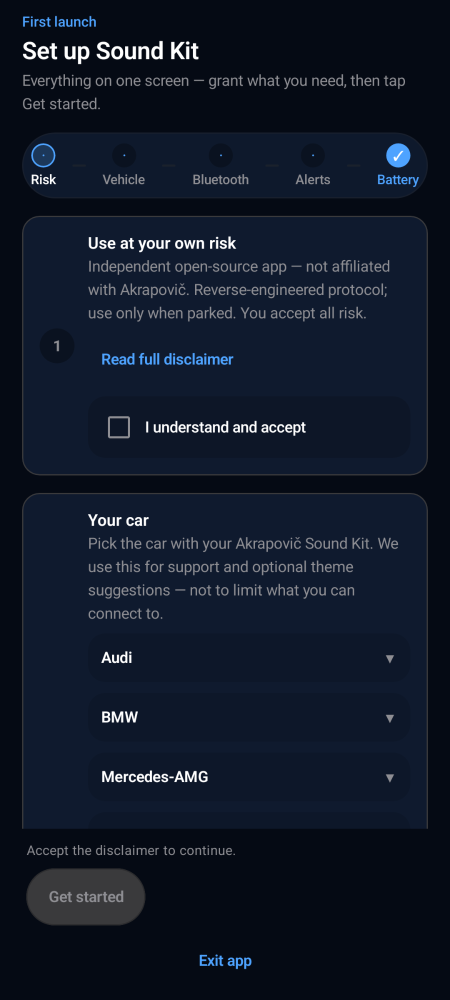
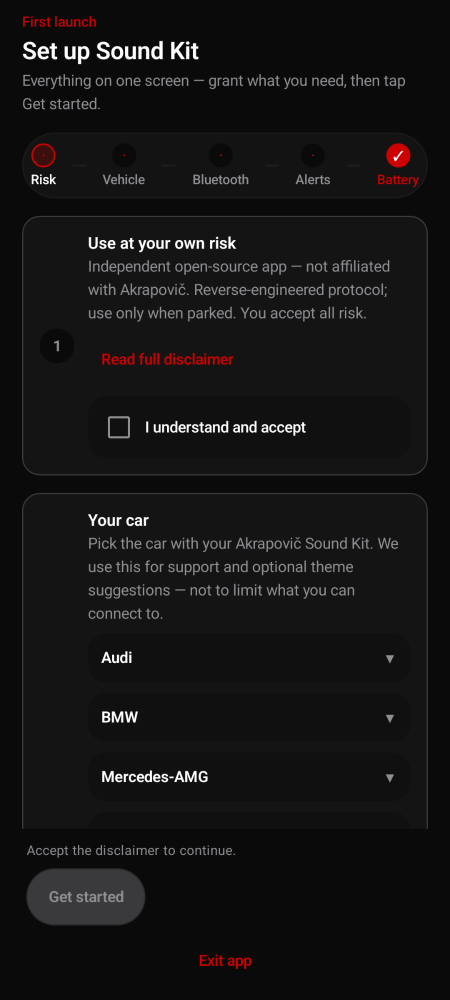
Refresh README screenshots with Audi RS Dark and drive mode features.
Show auto open/close on connect, quiet neighbours overnight window, and the RS theme in Paparazzi captures for owner-facing docs.

diff --git a/app/src/test/java/com/akrapovic/soundkit/community/ui/DocsScreenshotPaparazziTest.kt b/app/src/test/java/com/akrapovic/soundkit/community/ui/DocsScreenshotPaparazziTest.kt
@@ -8,28 +8,24 @@ import androidx.compose.ui.Modifier
 import app.cash.paparazzi.DeviceConfig
 import app.cash.paparazzi.Paparazzi
 import com.akrapovic.soundkit.community.domain.ConnectionState
-import com.akrapovic.soundkit.community.domain.DiagnosticsEntry
-import com.akrapovic.soundkit.community.domain.DiagnosticsLevel
-import com.akrapovic.soundkit.community.domain.SoundKitSettings
+import com.akrapovic.soundkit.community.domain.PreferredValveMode
+import com.akrapovic.soundkit.community.domain.QuietStartSettings
 import com.akrapovic.soundkit.community.domain.ValveState
 import com.akrapovic.soundkit.community.testDeviceForSmoke
 import com.akrapovic.soundkit.community.ui.control.ConnectedDeviceScreen
-import com.akrapovic.soundkit.community.ui.diagnostics.DiagnosticsScreen
-import com.akrapovic.soundkit.community.ui.more.AdvancedScreen
-import com.akrapovic.soundkit.community.ui.more.MoreScreen
+import com.akrapovic.soundkit.community.ui.garage.GarageThemeScreen
 import com.akrapovic.soundkit.community.ui.onboarding.OnboardingFlow
 import com.akrapovic.soundkit.community.ui.onboarding.VehicleSelectionContent
 import com.akrapovic.soundkit.community.ui.scan.ScanScreen
+import com.akrapovic.soundkit.community.ui.settings.DriveModeScreen
+import com.akrapovic.soundkit.community.ui.theme.GarageTheme
 import com.akrapovic.soundkit.community.ui.theme.SoundKitTheme
 import org.junit.Rule
 import org.junit.Test
 
 /**
- * JVM screenshot tests for README / docs. Run [scripts/capture-docs-screenshots.sh]
- * to record PNGs into docs/screenshots/ (works without a device or emulator).
- *
- * Uses full [DeviceConfig.PIXEL_6] pixel dimensions (1080×2400) — do not override
- * screenWidth/Height with dp-like values or text and buttons clip badly.
+ * Marketing screenshots for README — Audi RS Dark, drive mode, quiet neighbours.
+ * Run [scripts/capture-docs-screenshots.sh] to refresh [docs/screenshots/].
  */
 class DocsScreenshotPaparazziTest {
     @get:Rule
@@ -83,6 +79,7 @@ class DocsScreenshotPaparazziTest {
                                 rssi = -68,
                             ),
                         ),
+                        settings = demoAudiSettings(),
                     ),
                     permissions = emptyList(),
                     permissionsGranted = true,
@@ -96,16 +93,19 @@ class DocsScreenshotPaparazziTest {
     }
 
     @Test
-    fun homeConnected() {
+    fun homeConnectedAudi() {
         val device = testDeviceForSmoke()
-        paparazzi.snapshot(name = "04-home-connected") {
+        paparazzi.snapshot(name = "04-home-connected-audi") {
             PhoneFrame {
                 ConnectedDeviceScreen(
                     state = SoundKitUiState(
                         connectionState = ConnectionState.Connected(device),
                         valveState = ValveState.Open,
                         protocolVerified = true,
-                        settings = SoundKitSettings(selectedVehicleId = "audi-rs3"),
+                        settings = demoAudiSettings(
+                            preferredValveMode = PreferredValveMode.Open,
+                            quietStart = QuietStartSettings(enabled = false),
+                        ),
                     ),
                     onToggleValve = {},
                     onDisconnect = {},
@@ -115,53 +115,83 @@ class DocsScreenshotPaparazziTest {
     }
 
     @Test
-    fun moreMenu() {
-        paparazzi.snapshot(name = "05-more-menu") {
+    fun driveModeOpenOnConnect() {
+        paparazzi.snapshot(name = "05-drive-mode-open-on-connect") {
             PhoneFrame {
-                MoreScreen(onNavigate = {})
-            }
-        }
-    }
-
-    @Test
-    fun advancedHub() {
-        paparazzi.snapshot(name = "06-advanced-hub") {
-            PhoneFrame {
-                AdvancedScreen(onNavigate = {})
-            }
-        }
-    }
-
-    @Test
-    fun diagnosticsSupport() {
-        paparazzi.snapshot(name = "07-diagnostics-support") {
-            PhoneFrame {
-                WithStubActivityResultRegistry {
-                    DiagnosticsScreen(
-                        entries = listOf(
-                            DiagnosticsEntry(
-                                id = 1L,
-                                timestampMillis = 1_700_000_000_000L,
-                                level = DiagnosticsLevel.Info,
-                                message = "Connected to Akrapovic SoundKit",
-                            ),
-                            DiagnosticsEntry(
-                                id = 2L,
-                                timestampMillis = 1_700_000_001_000L,
-                                level = DiagnosticsLevel.Debug,
-                                message = "Valve state: OPEN",
-                            ),
+                DriveModeScreen(
+                    state = SoundKitUiState(
+                        settings = demoAudiSettings(
+                            preferredValveMode = PreferredValveMode.Open,
+                            quietStart = QuietStartSettings(enabled = false),
                         ),
-                        onBuildReport = { "Sound Kit Community diagnostics report" },
-                    )
-                }
+                    ),
+                    onDriveModeEnabledChanged = {},
+                    onPreferredModeChanged = {},
+                    onQuietStartChanged = {},
+                    onDriveModePausedChanged = {},
+                )
+            }
+        }
+    }
+
+    @Test
+    fun driveModeClosedOnConnect() {
+        paparazzi.snapshot(name = "06-drive-mode-closed-on-connect") {
+            PhoneFrame {
+                DriveModeScreen(
+                    state = SoundKitUiState(
+                        settings = demoAudiSettings(
+                            preferredValveMode = PreferredValveMode.Closed,
+                            quietStart = QuietStartSettings(enabled = false),
+                        ),
+                    ),
+                    onDriveModeEnabledChanged = {},
+                    onPreferredModeChanged = {},
+                    onQuietStartChanged = {},
+                    onDriveModePausedChanged = {},
+                )
+            }
+        }
+    }
+
+    @Test
+    fun quietNeighbours() {
+        paparazzi.snapshot(name = "07-quiet-neighbours") {
+            PhoneFrame {
+                DriveModeScreen(
+                    state = SoundKitUiState(
+                        settings = demoAudiSettings(
+                            preferredValveMode = PreferredValveMode.Open,
+                            quietStart = demoQuietNeighboursSettings,
+                        ),
+                    ),
+                    onDriveModeEnabledChanged = {},
+                    onPreferredModeChanged = {},
+                    onQuietStartChanged = {},
+                    onDriveModePausedChanged = {},
+                )
+            }
+        }
+    }
+
+    @Test
+    fun audiAppearance() {
+        paparazzi.snapshot(name = "08-audi-rs-dark-theme") {
+            PhoneFrame {
+                GarageThemeScreen(
+                    selectedThemeId = AudiRsDarkTheme.id,
+                    onThemeSelected = {},
+                )
             }
         }
     }
 
     @Composable
-    private fun PhoneFrame(content: @Composable () -> Unit) {
-        SoundKitTheme {
+    private fun PhoneFrame(
+        garageTheme: GarageTheme = AudiRsDarkTheme,
+        content: @Composable () -> Unit,
+    ) {
+        SoundKitTheme(garageTheme = garageTheme) {
             Surface(
                 modifier = Modifier.fillMaxSize(),
                 color = MaterialTheme.colorScheme.background,

diff --git a/app/src/test/java/com/akrapovic/soundkit/community/ui/ScreenshotFixtures.kt b/app/src/test/java/com/akrapovic/soundkit/community/ui/ScreenshotFixtures.kt
@@ -1,0 +1,44 @@
+package com.akrapovic.soundkit.community.ui
+
+import com.akrapovic.soundkit.community.domain.PreferredValveMode
+import com.akrapovic.soundkit.community.domain.QuietStartSettings
+import com.akrapovic.soundkit.community.domain.SavedReceiver
+import com.akrapovic.soundkit.community.domain.SoundKitSettings
+import com.akrapovic.soundkit.community.ui.theme.GarageTheme
+import com.akrapovic.soundkit.community.ui.theme.GarageThemePresets
+
+val AudiRsDarkTheme: GarageTheme =
+    GarageThemePresets.first { it.id == "audi-rs-dark" }
+
+fun demoAudiSettings(
+    driveModeEnabled: Boolean = true,
+    preferredValveMode: PreferredValveMode = PreferredValveMode.Open,
+    quietStart: QuietStartSettings = QuietStartSettings(),
+    automationPaused: Boolean = false,
+) = SoundKitSettings(
+    garageThemeId = AudiRsDarkTheme.id,
+    selectedVehicleId = "audi-rs3",
+    onboardingCompletedAt = 1L,
+    riskNoticeAcceptedAt = 1L,
+    driveModeEnabled = driveModeEnabled,
+    preferredValveMode = preferredValveMode,
+    quietStart = quietStart,
+    automationPaused = automationPaused,
+    savedReceivers = listOf(
+        SavedReceiver(
+            address = "00:11:22:33:44:55",
+            name = "Akrapovic SoundKit",
+            nickname = "Audi RS3",
+            isDefault = true,
+        ),
+    ),
+)
+
+/** Weekday overnight window — typical quiet-neighbours setup. */
+val demoQuietNeighboursSettings = QuietStartSettings(
+    enabled = true,
+    daysOfWeek = setOf(0, 1, 2, 3, 4),
+    windowStartMinute = 22 * 60,
+    windowEndMinute = 7 * 60,
+    holdClosedMinutes = 5,
+)

diff --git a/README.md b/README.md
@@ -6,30 +6,37 @@ Open-source Android app for the Akrapovič **Car Sound Kit** BLE receiver — a 
 
 ## For Sound Kit owners
 
-**[Install guide → INSTALL.md](INSTALL.md)** — download the APK, grant permissions, scan your receiver. No coding required.
+**[Install guide → INSTALL.md](INSTALL.md)** · **[Download v0.3.0 →](https://github.com/lukey662/akrapovic-Soundkit-Community-Edition/releases/tag/v0.3.0)**
 
-| Step | What you will see |
-|------|-------------------|
-| Setup | Risk notice and vehicle selection |
-| Scan | Find your receiver nearby |
-| Home | Open/close valves when parked |
-| Support | Export diagnostics and email **support@appsforgood.net** |
+| Feature | What it does |
+|---------|----------------|
+| **Auto open / close** | Drive mode applies **Open** or **Closed** whenever you connect |
+| **Quiet neighbours** | Hold valves closed for a few minutes during evening/weekend windows |
+| **Audi RS theme** | Matte black + RS red — suggested when you pick Audi RS3 in setup |
 
 <p align="center">
-  <img src="docs/screenshots/04-home-connected.png" alt="Connected — valve open" width="320" />
+  <img src="docs/screenshots/04-home-connected-audi.png" alt="Audi RS Dark — connected, valves open" width="320" />
 </p>
 
 <p align="center">
-  <img src="docs/screenshots/01-onboarding-risk.png" alt="First-launch setup" width="280" />
+  <img src="docs/screenshots/05-drive-mode-open-on-connect.png" alt="Drive mode — auto open on connect" width="280" />
   &nbsp;&nbsp;
+  <img src="docs/screenshots/07-quiet-neighbours.png" alt="Quiet neighbours — overnight window" width="280" />
+</p>
+
+<p align="center">
+  <img src="docs/screenshots/06-drive-mode-closed-on-connect.png" alt="Drive mode — auto close on connect" width="280" />
+  &nbsp;&nbsp;
+  <img src="docs/screenshots/08-audi-rs-dark-theme.png" alt="Audi RS Dark appearance" width="280" />
+</p>
+
+<p align="center">
   <img src="docs/screenshots/03-scan-receivers.png" alt="Scan for receivers" width="280" />
+  &nbsp;&nbsp;
+  <img src="docs/screenshots/02-vehicle-selection.png" alt="Vehicle selection — Audi RS3" width="280" />
 </p>
 
-<p align="center">
-  <img src="docs/screenshots/05-more-menu.png" alt="More menu" width="280" />
-  &nbsp;&nbsp;
-  <img src="docs/screenshots/07-diagnostics-support.png" alt="Diagnostics and support" width="280" />
-</p>
+**Support:** More → Advanced → Diagnostics → email **support@appsforgood.net**
 
 ---
 
